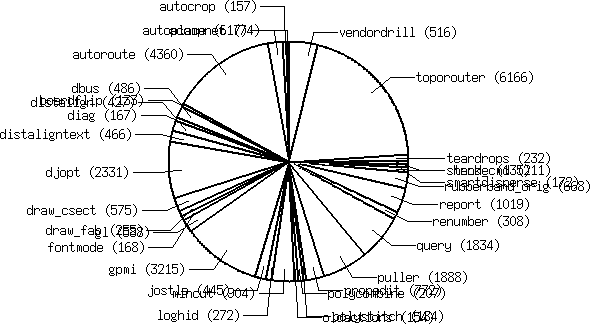
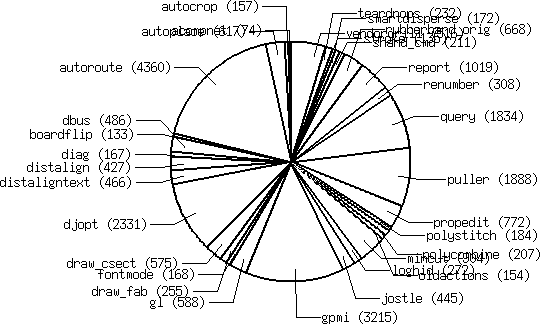
[doc] -Update: regenerate mods3, modulularization statistics, after removing toporouter
git-svn-id: svn://repo.hu/librnd/trunk@6804 1d61de99-560f-4dba-8957-1e505d42358b

diff --git a/doc/developer/mods3/index.html b/doc/developer/mods3/index.html
@@ -261,7 +261,7 @@ Below is a table with the summary of core plugins.
 <td bgcolor="lightgreen"> buildin
 <td> hid
 <td> HID without GUI; read actions from stdin. 
-<tr><th align=left>hid_gtk<td>11343
+<tr><th align=left>hid_gtk<td>9755
 <td bgcolor="lightgreen" > works
 <td bgcolor="lightgreen"> buildin
 <td> hid
@@ -271,7 +271,7 @@ Below is a table with the summary of core plugins.
 <td bgcolor="red"> disable
 <td> hid
 <td> GUI: the GTK3 HID, using cairo for rendering 
-<tr><th align=left>hid_lesstif<td>6866
+<tr><th align=left>hid_lesstif<td>6873
 <td bgcolor="lightgreen" > works
 <td bgcolor="lightgreen"> buildin
 <td> hid
@@ -281,7 +281,7 @@ Below is a table with the summary of core plugins.
 <td bgcolor="red"> disable
 <td> hid
 <td> Remote access HID: implement a protocol and use it to relay between a core and a remote HID implementation. 
-<tr><th align=left>import_dsn<td>232
+<tr><th align=left>import_dsn<td>233
 <td bgcolor="lightgreen" > works
 <td > enabled
 <td> import
@@ -291,11 +291,21 @@ Below is a table with the summary of core plugins.
 <td bgcolor="lightgreen"> buildin
 <td> import
 <td> Import plugin for netlists in the EDIF format. 
-<tr><th align=left>import_hyp<td>2397
+<tr><th align=left>import_hyp<td>2400
 <td  > WIP
 <td bgcolor="red"> disable
 <td> import
 <td> Import plugin for hyperlynx geometry. 
+<tr><th align=left>import_ltspice<td>506
+<td  > WIP
+<td bgcolor="red"> disable
+<td> import
+<td> Import the netlist and footprints from an ltspice .asc and .net pair of files 
+<tr><th align=left>import_mucs<td>108
+<td bgcolor="lightgreen" > works
+<td > builtin
+<td> import
+<td> Import lines and vias from MUCS unixplot .pl files 
 <tr><th align=left>import_netlist<td>136
 <td bgcolor="lightgreen" > works
 <td bgcolor="lightgreen"> buildin
@@ -306,6 +316,11 @@ Below is a table with the summary of core plugins.
 <td bgcolor="lightgreen"> buildin
 <td> import
 <td> Imports element and netlist data from the schematics (or some other source). 
+<tr><th align=left>import_tinycad<td>147
+<td  > WIP
+<td bgcolor="red"> disable
+<td> import
+<td> Import the netlist and footprints from a tinycad netlist. 
 <tr><th align=left>io_kicad<td>3060
 <td bgcolor="lightgreen" > works
 <td bgcolor="lightgreen"> buildin
@@ -336,7 +351,7 @@ Below is a table with the summary of core plugins.
 <td bgcolor="red"> disabled
 <td> (lib)
 <td> S-expression parser lib 
-<tr><th align=left>lib_gtk_common<td>5109
+<tr><th align=left>lib_gtk_common<td>6913
 <td bgcolor="lightgreen" > works
 <td bgcolor="red"> disabled
 <td> (lib)
@@ -421,12 +436,6 @@ Below is a table with the summary of core plugins.
 <td bgcolor="lightgreen"> buildin
 <td> (feature)
 <td> Draw teardrops on pins. 
-<tr><th align=left>toporouter<td>6166
-<td bgcolor="red" > fails
-<br> (infinite loop in gts)
-<td bgcolor="red"> disabled
-<td> (feature)
-<td> Automatically route selected or all rats using a topological algorithm. This is the new autorouter from 2009. 
 <tr><th align=left>vendordrill<td>516
 <td bgcolor="lightgreen" > works
 <td bgcolor="lightgreen"> buildin
